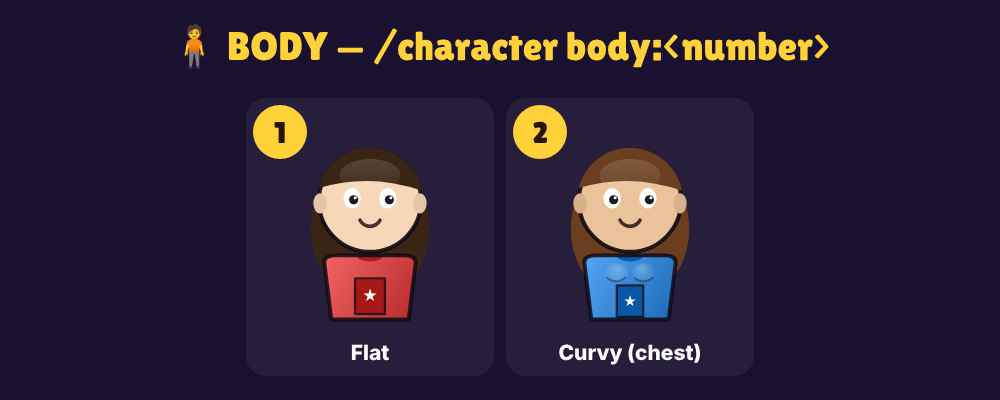
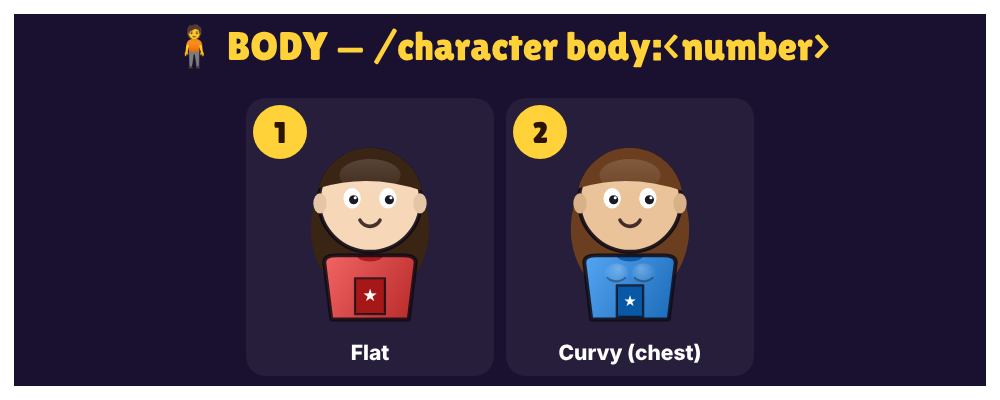
1.57.1: white borders on the Discord character pictures
Claude-Session: https://claude.ai/code/session_01CRqiBDMvqLEj8M2E4bKXyK

Changed region(s): [[0.0, 0.0, 1.0, 1.0]]

diff --git a/public/charsheet.html b/public/charsheet.html
@@ -19,7 +19,9 @@ const SHEETS = {
 };
 const P = new URLSearchParams(location.search).get('sheet') || new URLSearchParams(location.search).get('part') || 'hair', S = SHEETS[P] || SHEETS.hair, C = window.CHAR_PARTS, N = C.NAMES, cv = document.getElementById('c'), g = cv.getContext('2d');
 const COLS = ['#d84a4a', '#3a8ad8', '#3aa85a', '#c77dff', '#f0a020', '#e05aa8', '#2ab0b0', '#8a6a4a'];
-function drawSheet() {
+function drawSheet() { drawSheet0(); frame(); }
+function frame() { g.save(); g.strokeStyle = '#fff'; g.lineWidth = 14; g.strokeRect(7, 7, cv.width - 14, cv.height - 14); g.restore(); } // ⬜ a white border, so pictures next to each other in Discord don't blend together (Derek)
+function drawSheet0() {
   if (P === 'colors') {
     cv.width = 1400; cv.height = 620; g.fillStyle = '#1a1030'; g.fillRect(0, 0, cv.width, cv.height);
     head(S.title);

diff --git a/public/charone.html b/public/charone.html
@@ -17,6 +17,7 @@ function go() {
   const m = size / 2, rr = size * .3;
   g.save(); g.translate(0, size * .06); window.CHAR_PARTS.draw(g, m, rr, look, null, Q.get('col') || '#e8454a', ini); g.restore();
   if (name) { g.fillStyle = '#ffd23a'; g.font = `800 ${Math.round(size * .1)}px Inter, Arial, sans-serif`; g.textAlign = 'center'; g.textBaseline = 'middle'; g.fillText(name, size / 2, size + size * .06); }
+  g.strokeStyle = '#fff'; g.lineWidth = Math.max(4, size * .03); g.beginPath(); g.roundRect ? g.roundRect(g.lineWidth / 2, g.lineWidth / 2, cv.width - g.lineWidth, cv.height - g.lineWidth, size * .08) : g.rect(0, 0, cv.width, cv.height); g.stroke(); // ⬜ white border
   window.__png = cv.toDataURL('image/png');
 }
 go();

diff --git a/CLAUDE.md b/CLAUDE.md
@@ -172,3 +172,4 @@ No look-alikes of real characters/brands (declined a Homer Simpson donut monster
 - **📁 Discord folder + #character-creation (1.57.0, Derek):** discord.js `folder(g)` (category `settings.discordCategory` 'Movie Royal', `db.discordFolders`), `intoFolder(g, ch, warn)` = `setParent(cat, {lockPermissions:false})` (debug/sync keep their hidden overwrites) for picks, chars, debug, sync (prep order = folder order); `setupChars(g)` (`settings.charChannel` / `charChannelName`, `db.discordChars[g]` {channelId, pinId, pinKey = picsVersion + text}): ONE pinned message = how-to + all 9 sheet PNGs. `/character` only there (`charChannelFor`), picture posts go there; worker copy via `cfg.charChannels` (WORKER_V 10). Settings changes → `RESTART_DISCORD`. Self-test checks the folder + channels. Tested only against a pretend Discord.
 - **Map menus (1.54.1):** `MAP_SECS` / `mapSec(m)` in control.html: ⚪ Ball / car only → 🃏 Character only (card maps) → ⚪🃏 Both → 🎉 Holiday, each A–Z (also the tag list in Settings → Game).
 - **🖼 Character pictures (1.55.1):** `public/charone.html?look=&name=&size=` draws one character → `window.__png`; `looks.picture(look, name)` renders it via main.cjs `__desktop.renderPicture(url)` (hidden window) or Playwright when not in Electron (tests). App bot `/character`: reply, then `editReply` with the PNG + channel post (`looks.postOk` = setting `lookPost`, 5 min per person). 24/7 worker `look` op carries `token/app/ch/first` (WORKER_V 9) → `cloud.lookPicture()` PATCHes the original answer (only < 14 min old) + posts in the channel with the bot token (multipart). Test: `GET /api/test/look-picture?look=&name=`.
+- **⬜ Picture borders (1.57.1, Derek):** charsheet.html `frame()` (14 px white border after `drawSheet0()`) + charone.html white rounded outline, so Discord pictures side by side don't blend. Regenerate public/chars/*.png after sheet changes.

diff --git a/CHANGELOG.md b/CHANGELOG.md
@@ -2,6 +2,9 @@
 
 What changed in each version of Movie Royal. Newest first.
 
+## 1.57.1
+- ⬜ **White borders on the character pictures in Discord.** Every part picture in #character-creation (and the little picture posted when someone makes their character) now has a white frame, so you can easily see where one picture ends and the next begins. The pinned message updates itself with the new pictures, and the 24/7 bot gets them automatically.
+
 ## 1.57.0 (test build)
 - 📁 **Movie Royal channel folder in Discord:** the bot puts all its channels in one channel folder called "Movie Royal": the movie picks channel, the new #character-creation, and the hidden #movie-royal-debug (mods and owner only) and #movie-royal-sync (bot only). Those two stay hidden: moving them keeps their own settings. Settings → Discord can rename the folder or turn it off.
 - 🎨 **#character-creation channel:**
